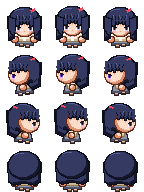
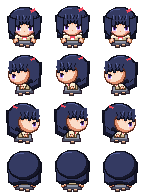
ちびキャラ：胴体を手本に合わせる（なで肩、ミトン形の手、ハルのシャツとズボン、靴の色、ユイの後ろ髪、服の輪郭）
Claude-Session: https://claude.ai/code/session_017gxvkc2TW4xYgG5MuSL3N1

diff --git a/files.js b/files.js
@@ -2,7 +2,7 @@
 // マップなどを足したら scripts に1行足す（順番どおりに読み込む。main.js は最後）。
 // 版の番号 v は tools/stamp.py が書き換える。
 window.FILES = {
-  v: '20261127041540',
+  v: '20261127042346',
   scripts: [
     'engine/core.js',
     'engine/world.js',

diff --git a/tools/sprites/make_chibi.py b/tools/sprites/make_chibi.py
@@ -90,20 +90,20 @@ class Pixel(Chibi):
 
 BASE = {
     'skin1': '#fbdcc8', 'skin2': '#f6bf9c', 'skinS': '#e2916f', 'skinLine': '#5a2c20', 'blush': '#ff8f96',
-    'eyeW': '#ffffff', 'lash': '#1a0f1c', 'mouth': '#c85a5e', 'line': '#2a1e2a',
+    'eyeW': '#ffffff', 'handO': '#97502c', 'lash': '#1a0f1c', 'mouth': '#c85a5e', 'line': '#2a1e2a',
 }
 CHARS = {
     'yui_chibi': dict(BASE, girl=True, **{
         'hair1': '#343a62', 'hair2': '#16172a', 'hairL': '#55609a', 'hairLine': '#0e0f1c',
         'iris1': '#5a3aa0', 'iris2': '#8a5ad8', 'iris3': '#d8c2ff',
-        'top1': '#f7ecd4', 'top2': '#cdb88f', 'topLine': '#8c7754', 'inner': '#ffffff', 'ribbon1': '#ee4a5e', 'ribbon2': '#9a1f34',
+        'top1': '#f7ecd4', 'top2': '#cdb88f', 'topLine': '#4a3826', 'inner': '#ffffff', 'ribbon1': '#ee4a5e', 'ribbon2': '#9a1f34',
         'low1': '#8e93a6', 'low2': '#4f5366', 'leg': '#2a2730', 'shoe1': '#7a5a4c', 'shoe2': '#2e201c',
     }),
     'haru_chibi': dict(BASE, girl=False, **{
         'hair1': '#3c3f4c', 'hair2': '#16171d', 'hairL': '#626778', 'hairLine': '#0d0d12',
         'iris1': '#5a3a28', 'iris2': '#8a6040', 'iris3': '#c09a78',
-        'top1': '#ffffff', 'top2': '#d6dbe6', 'topLine': '#7d8496', 'inner': '#f1c9b1', 'ribbon1': '#2a2420', 'ribbon2': '#2a2420',
-        'low1': '#3d4360', 'low2': '#1b1e2c', 'leg': '#1b1e2c', 'shoe1': '#4a4446', 'shoe2': '#101012',
+        'top1': '#ffffff', 'top2': '#d6dbe6', 'topLine': '#363a4a', 'inner': '#f1c9b1', 'ribbon1': '#2a2420', 'ribbon2': '#2a2420',
+        'low1': '#4d6290', 'low2': '#2e3c62', 'leg': '#2e3c62', 'shoe1': '#7a6a66', 'shoe2': '#463c40',
     }),
 }
 
@@ -123,37 +123,46 @@ def body(a, c, side, step, back):
             a.part([('p', [(-5.8, 37.4), (5.8, 37.4), (7.6, 43.6), (-7.6, 43.6)])], c['low1'], c['low2'], shade=c['low2'], line=c['line'], lw=0.7)
         else:
             a.part([('p', [(-4.2, 38.6), (4.2, 38.6), (4.4, 43.6), (-4.4, 43.6)])], c['low1'], c['low2'], shade=c['low2'], line=c['line'], lw=0.7)
-        a.part([('p', [(-3.8, 34), (4, 34), (4.4, 39.4), (-4.2, 39.4)]), ('e', -6.4, 31.4, 6.4, 37)], c['top1'], c['top2'], shade=c['top2'], line=c['topLine'], lw=0.7)
-        a.part([('p', [(-1.8, 33.2), (2, 33.2), (2 + sw, 38.4), (-1.8 + sw, 38.4)])], c['top1'], c['top2'], line=c['topLine'], lw=0.6)
-        a.part([('e', -2.3 + sw, 37.2, 2.3 + sw, 41.4)], c['skin1'], c['skin2'], shade=c['skinS'], line=c['skinLine'], lw=0.5)
+        a.part([('p', [(-3.8, 35.4), (4, 35.4), (4.4, 40.4), (-4.2, 40.4)]), ('e', -6.4, 33, 6.4, 38.2)], c['top1'], c['top2'], shade=c['top2'], line=c['topLine'], lw=0.7)
+        a.part([('p', [(-1.8, 34.4), (2, 34.4), (2 + sw, 38.6), (-1.8 + sw, 38.6)])], c['top1'], c['top2'], line=c['topLine'], lw=0.6)
+        a.dots(round(sw) - 2, 38, ['.oKE', 'oMMK', 'oLdK', '.EE.'], {'o': c['handO'], 'd': c['handO'], 'E': c['line'], 'K': c['skinS'], 'L': c['skin2'], 'M': c['skin1']})
         if girl:
-            a.part([('p', [(-5.4, 32.6), (-3, 32.6), (-4, 35.4)])], c['ribbon1'], c['ribbon2'], lw=0.4)
+            a.part([('p', [(-5.4, 34), (-3, 34), (-4, 36.6)])], c['ribbon1'], c['ribbon2'], lw=0.4)
         feet(a, c, 'side', step)
         return
-    # 脚と靴（靴は甲が見える）
+    # 正面。あごの下（35行）から なで肩で始まり、下へ広がる
     if girl:
-        a.part([('p', [(-5.6, 37.4), (5.6, 37.4), (7.8, 43.6), (-7.8, 43.6)])], c['low1'], c['low2'], shade=c['low2'], line=c['line'], lw=0.7)
-    else:
-        for x0, x1, l in ((-4.6, -0.4, la), (0.4, 4.6, ra)):
-            a.part([('p', [(x0, 38.6), (x1, 38.6), (x1, 43.6), (x0, 43.6)])], c['low1'], c['low2'], shade=c['low2'], line=c['line'], lw=0.7)
-    for s in (-1, 1):  # 腕：大きな肩から外へ開く
-        a.part([('p', [(s * 7.2, 35.4), (s * 9.8, 35.4), (s * 10.8, 38.4), (s * 8.4, 39.2)])], c['top1'], c['top2'], shade=c['top2'], line=c['topLine'], lw=0.6)
-    # 胴は細く、肩は大きく（上から見下ろすので、肩の丸みと上の面が見える）
-    m = a.part([('p', [(-5.2, 35), (5.2, 35), (5.8, 39.6), (-5.8, 39.6)]), ('e', -10.2, 32.6, -2.4, 38.2), ('e', 2.4, 32.6, 10.2, 38.2)],
+        a.part([('p', [(-5.6, 38.4), (5.6, 38.4), (7.8, 43.6), (-7.8, 43.6)])], c['low1'], c['low2'], shade=c['low2'], line=c['line'], lw=0.7)
+    else:  # ズボンは3段（41〜44行）、股の線
+        a.part([('r', -5.6, 40.6, 5.6, 44.6)], c['low1'], c['low2'], shade=c['low2'], line=c['line'], lw=0.7)
+        a.dots(0, 43, ['o', 'o'], {'o': c['line']})
+    bottom = 39.4 if girl else 40.4
+    m = a.part([('p', [(-7.6, 34.6), (7.6, 34.6), (10.6, 37.6), (10.6, 38.4), (5.6, bottom), (-5.6, bottom), (-10.6, 38.4), (-10.6, 37.6)])],
                c['top1'], c['top2'], shade=c['top2'], light=(255, 252, 240), line=c['topLine'], lw=0.7)
     for s in (-1, 1):
-        a.stroke([(s * 9, 34.2), (s * 4, 33.4)], (255, 253, 244))  # 肩の上の面（あごの下に見える）
-        a.part([('e', s * 9.8 - 2.4, 36.8, s * 9.8 + 2.4, 41.4)], c['skin1'], c['skin2'], shade=c['skinS'], line=c['skinLine'], lw=0.5)  # 大きめの手
+        a.stroke([(s * 6.4, 35), (s * 2.6, 35)], (255, 253, 244))  # 肩の上の面（あごのすぐ下に見える）
     if not back:
         if girl:
-            a.clip(m, [('p', [(-1.4, 32.4), (1.4, 32.4), (1.4, 39.6), (-1.4, 39.6)])], c['inner'], 1.0)
-            a.part([('p', [(-2.4, 32.4), (0, 34), (2.4, 32.4), (1.8, 35.6), (0, 34.8), (-1.8, 35.6)])], c['ribbon1'], c['ribbon2'], lw=0.4)
+            a.clip(m, [('p', [(-1.4, 35), (1.4, 35), (1.4, 39.6), (-1.4, 39.6)])], c['inner'], 1.0)
+            a.part([('p', [(-2.4, 35), (0, 36.4), (2.4, 35), (1.8, 37.8), (0, 37), (-1.8, 37.8)])], c['ribbon1'], c['ribbon2'], lw=0.4)
         else:
-            a.clip(m, [('p', [(-1.8, 32.4), (1.8, 32.4), (0, 35)])], c['inner'], 1.0)
-            a.clip(m, [('r', -0.2, 35, 0.2, 38.4)], c['topLine'], 0.7)
+            a.clip(m, [('p', [(-1.8, 35), (1.8, 35), (0, 37.4)])], c['inner'], 1.0)
+            a.clip(m, [('r', -0.2, 37.4, 0.2, 40.4)], c['topLine'], 0.7)
     if not girl:
-        a.part([('r', -5.6, 38.2, 5.6, 39.6)], c['ribbon1'], c['ribbon2'], lw=0.4)  # ベルト
+        a.dots(-5, 41, ['bbbbbbbbbbb'], {'b': c['ribbon1']})  # ベルト（1段）
+    hands(a, c)
     feet(a, c, 'front', step)
+
+
+# 手：丸ではなくミトン形。外側の輪郭は茶色、内側と下は濃い線（腕と胴の境目にもなる）。
+# 明るい肌は真ん中上寄りに2×2、下の段の内側は欠けていて、その上に親指の付け根の点
+HAND = ['.oKLEE', 'oKMMKE', 'oLMMKE', 'oLLdKE', 'oKKEEE', '.EEE..']
+
+
+def hands(a, c):
+    pal = {'o': c['handO'], 'd': c['handO'], 'E': c['line'], 'K': c['skinS'], 'L': c['skin2'], 'M': c['skin1']}
+    a.dots(-11, 38, HAND, pal)
+    a.dots(6, 38, [r[::-1] for r in HAND], pal)
 
 
 def feet(a, c, side, step):
@@ -269,7 +278,7 @@ def head(a, c, side):
         return
     # 正面
     if girl:
-        a.part([('p', [(-15.8, 16), (-11.4, 16), (-11.2, 36), (-15.2, 38)]), ('p', [(15.8, 16), (11.4, 16), (11.2, 36), (15.2, 38)])], c['hair1'], c['hair2'], shade=c['hair2'], line=c['hairLine'])
+        a.part([('p', [(-15.6, 16), (-11.4, 16), (-11.2, 35.6), (-13.6, 36.4)]), ('p', [(15.6, 16), (11.4, 16), (11.2, 35.6), (13.6, 36.4)])], c['hair1'], c['hair2'], shade=c['hair2'], line=c['hairLine'])
     hm = a.part([('e', -15.2, 7 if girl else 6.4, 15.2, 33)], c['hair1'], c['hair2'], shade=c['hair2'], line=c['hairLine'])
     if not girl:
         a.part([('p', [(-11, 10), (-13, 6.4), (-6, 8)]), ('p', [(-2, 7.4), (0, 3.6), (2.4, 7.2)]), ('p', [(8, 9), (13, 6.6), (12, 12)])], c['hair1'], c['hair2'], line=c['hairLine'], lw=0.6)

diff --git a/CLAUDE.md b/CLAUDE.md
@@ -10,7 +10,7 @@
 - 校舎（廊下8枚と部屋の型）は `tools/gen_school.py` で生成する。生成した `data/maps/school_*.js` は直接直さず、スクリプトを直して作り直す。お話のイベントは `data/story.js` に `G.addEvents` で足す（`at: '扉の名前'` で位置を決められる）。見取り図の施設名のうち学校が特定されそうな名前は一般的な名前に変える
 - 参考にした市販ゲームのファイル（データ・画像・音・シナリオ）はこのリポジトリに入れない
 - タイル素材（ドット絵世界）は二次配布禁止。元のPNGは入れず、`tools/encode_tileset.py` で変換した `data/tilesets/*.js` だけを入れる。タイトル画面の著作権表示（system.js の credits）は消さない
-- キャラの歩行グラフィックは、いまはちびキャラ（手本：RPGツクールMVの標準キャラの比率、約1.5頭身、1コマ48×48px）。`tools/sprites/make_chibi.py` で描き、`img/chars/haru_chibi.png`・`img/chars/yui_chibi.png` に書き出す。塗りは手本と同じくっきりしたドット絵（48×48pxに直接描く。ベタ塗り、段をつけた影と光、部品ごとに1ドットの濃い輪郭、目は1ドットずつ形を決め、白い光はほぼ使わず外側の白目と上が濃い瞳で表す。髪のかたまりは小さめで額は高め、前髪には毛束の明るい筋を1本おきに入れて凹凸を出す。胴は肩が細く裾へ広がる八の字で、腕も外へ開く。前髪の毛先は目の上端に接するまで下ろし、真ん中の毛束だけ短くしてそのすき間から額をのぞかせる。前髪のすぐ下の肌には影（1段目は影色、2段目は中間色）。顔の横の髪で、目の外側の端からあごの近くまで顔を縁取る（男子は細く短め）。肌は桃色がかった色（白っぽくしない）。目はまるごと見せる。やや上から見下ろしつつ足先まで全身を見せる（胴→スカート／ズボン→脚1ドット（女子は肌色）→靴2ドット（上が明るく下が暗い）。左右の足は幅5ドット（輪郭＋中身3）で間に1ドットのすき間。歩くと上げた足が1ドット上がる）。目は顔の大きさを変えずに大きく、5×5ドット（上まつげは3ドット幅で2段目が内側へ1ドットずれる斜め、黒目3ドット幅で上が濃く一番下が明るい、真ん中に縦2ドットの瞳孔、白目は外側3段・内側2段の両側）。目の間は7ドットで、目の外側は顔の縁（横の髪）に接する。見下ろす角度なので、肩の丸みと上の面があごのすぐ下に見え、口は省いて鼻を1ドットの点で表す。幅の割合は、手を含めた体が頭の約8割。その中で胴は細く、肩と手を大きめにする）。手本を使うときは、数字で測るだけでなく必ず拡大して絵そのものを見比べる。「イラストを縮めた柔らかい塗り」は4頭身のための試しで、ちびキャラには使わない。3頭身・4頭身は見送り。約4頭身の版（`make_trial.py`→`trial.png`、`make_haru.py`→`haru.png`）も残してある。手本の絵は写さない（比率と描き方だけ合わせる）。直したらスクリプトを動かして画像を作り直す
+- キャラの歩行グラフィックは、いまはちびキャラ（手本：RPGツクールMVの標準キャラの比率、約1.5頭身、1コマ48×48px）。`tools/sprites/make_chibi.py` で描き、`img/chars/haru_chibi.png`・`img/chars/yui_chibi.png` に書き出す。塗りは手本と同じくっきりしたドット絵（48×48pxに直接描く。ベタ塗り、段をつけた影と光、部品ごとに1ドットの濃い輪郭、目は1ドットずつ形を決め、白い光はほぼ使わず外側の白目と上が濃い瞳で表す。髪のかたまりは小さめで額は高め、前髪には毛束の明るい筋を1本おきに入れて凹凸を出す。胴は肩が細く裾へ広がる八の字で、腕も外へ開く。前髪の毛先は目の上端に接するまで下ろし、真ん中の毛束だけ短くしてそのすき間から額をのぞかせる。前髪のすぐ下の肌には影（1段目は影色、2段目は中間色）。顔の横の髪で、目の外側の端からあごの近くまで顔を縁取る（男子は細く短め）。肌は桃色がかった色（白っぽくしない）。目はまるごと見せる。やや上から見下ろしつつ足先まで全身を見せる（胴→スカート／ズボン→脚1ドット（女子は肌色）→靴2ドット（上が明るく下が暗い）。左右の足は幅5ドット（輪郭＋中身3）で間に1ドットのすき間。歩くと上げた足が1ドット上がる）。目は顔の大きさを変えずに大きく、5×5ドット（上まつげは3ドット幅で2段目が内側へ1ドットずれる斜め、黒目3ドット幅で上が濃く一番下が明るい、真ん中に縦2ドットの瞳孔、白目は外側3段・内側2段の両側）。目の間は7ドットで、目の外側は顔の縁（横の髪）に接する。見下ろす角度なので、肩はあごのすぐ下の行から始まり（上の面が明るく見える）、なで肩で下へ広がる。手は丸ではなくミトン形（幅4×高さ5、外側の輪郭は茶色・内側と下は濃い線で腕と胴の境目にもなる、明るい肌は真ん中上寄りに2×2、下の段の内側が欠けてその上に親指の付け根の点）。服の輪郭も濃い色。男子はシャツ6段・ベルト1段・ズボン3段（明るめの色、股の線）。口は省いて鼻を1ドットの点で表す。幅の割合は、手を含めた体が頭の約8割。その中で胴は細く、肩と手を大きめにする）。手本を使うときは、数字で測るだけでなく必ず拡大して絵そのものを見比べる。「イラストを縮めた柔らかい塗り」は4頭身のための試しで、ちびキャラには使わない。3頭身・4頭身は見送り。約4頭身の版（`make_trial.py`→`trial.png`、`make_haru.py`→`haru.png`）も残してある。手本の絵は写さない（比率と描き方だけ合わせる）。直したらスクリプトを動かして画像を作り直す
 - 字体：ゲームの文字は M+ 1m（`fonts/mplus-1m-regular.ttf`、M+ FONTS は自由に使用・配布できる）。`G.font()` と css/style.css で指定している。収録外の文字（♪など）は端末のフォントになる
 - 公開は gh-pages ブランチから。更新したら、まず `python3 tools/stamp.py`（files.js の版の番号を新しくする。ブラウザが古いファイルを使い回して新旧が混ざるのを防ぐ）、コミットして `git push origin main main:gh-pages` で両方に送る。そのあと `gh api repos/nzanke/game-test/actions/runs` で「pages build and deployment」が新しいコミットで completed success になったのを確かめてから報告する。ビルドが走らないときは空のコミットを送り直す（Pages 設定のAPIは作業環境から使えない）
 - やりとりと説明は日本語で
